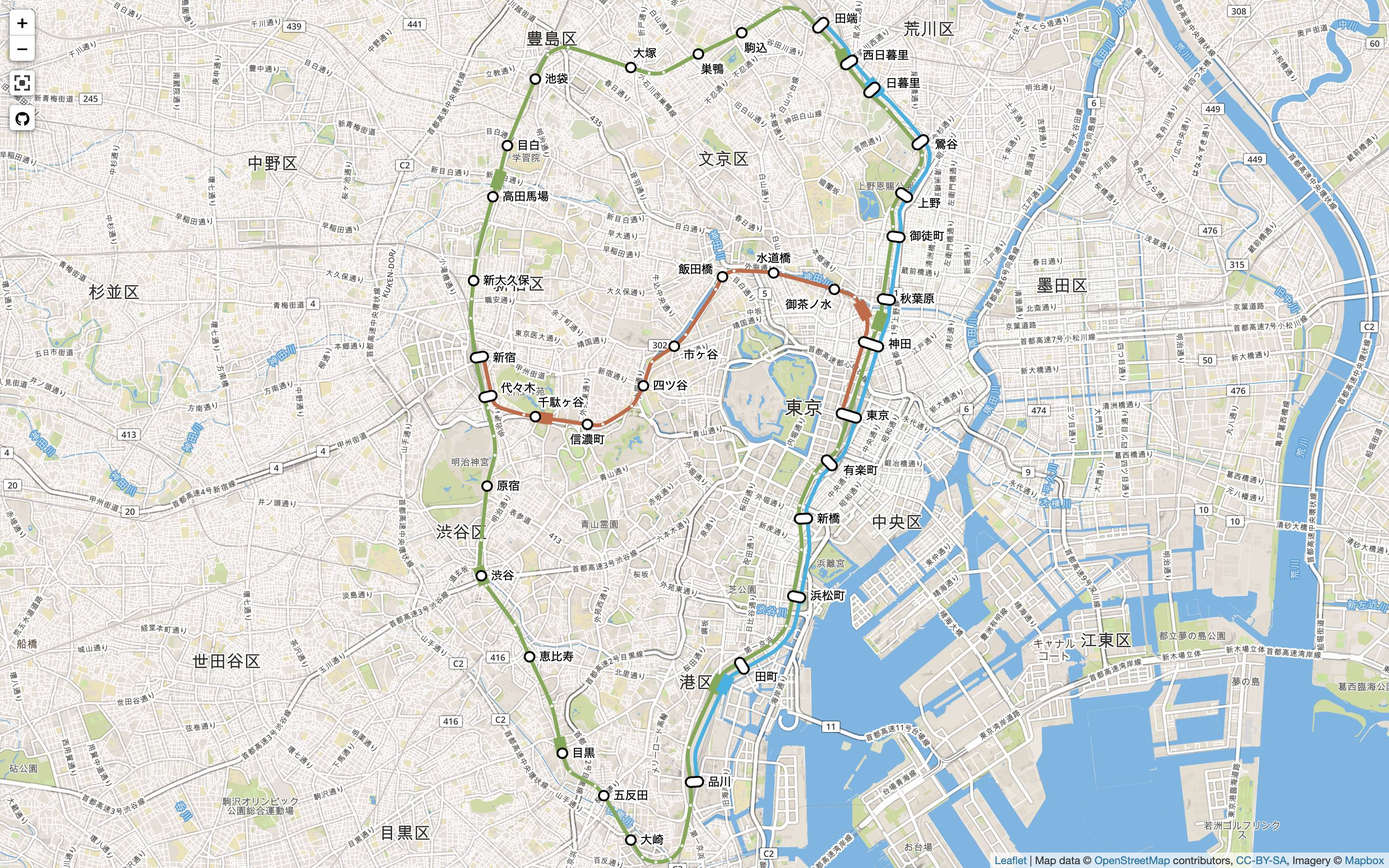
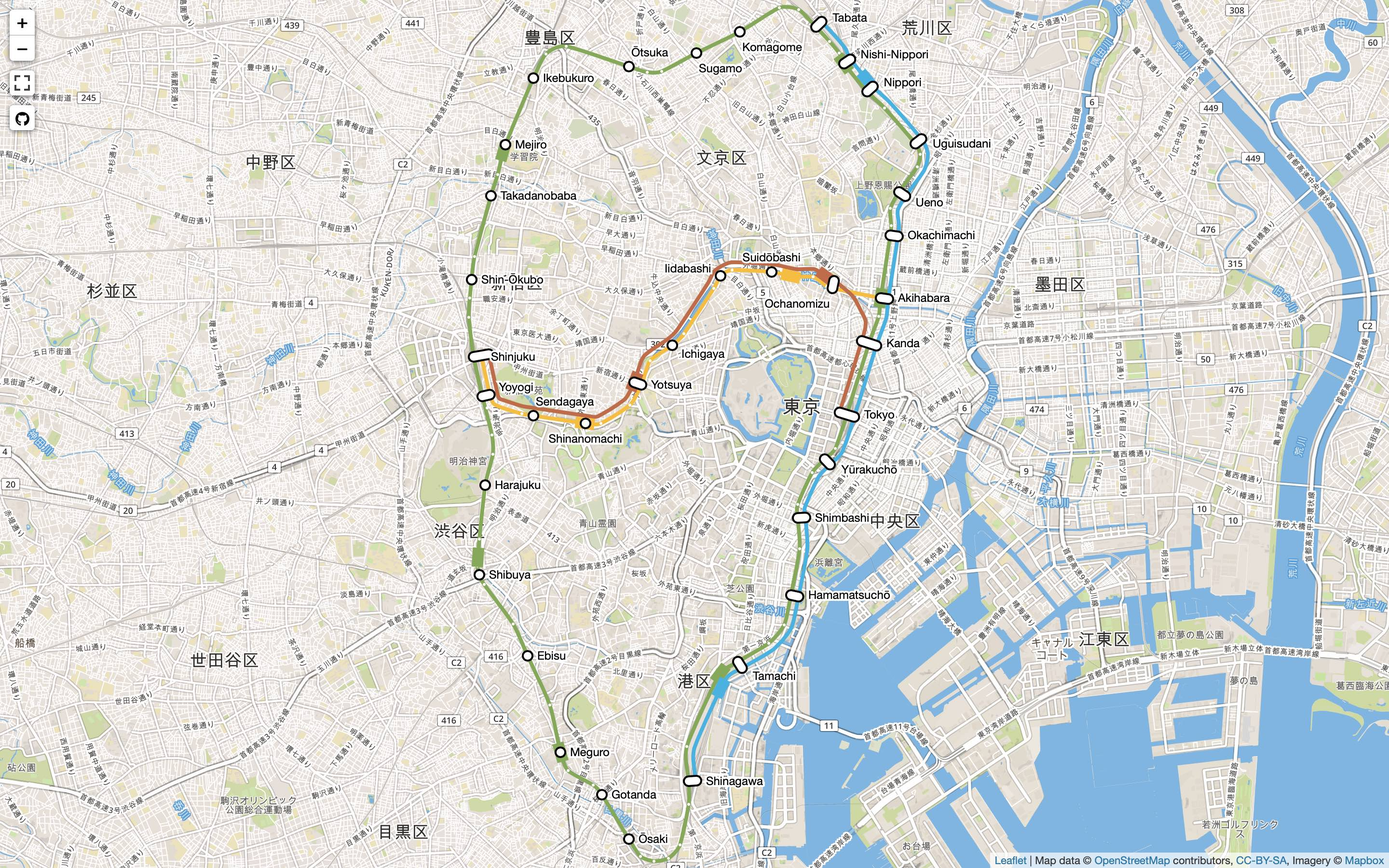
Add sobu linne

diff --git a/style.css b/style.css
@@ -13,6 +13,10 @@ body {
 	stroke: #7BAB4F;
 	fill: #7BAB4F;
 }
+.sobu {
+	stroke: #FDBC00;
+	fill: #FDBC00;
+}
 .chuo {
 	stroke: #CA6840;
 	fill: #CA6840;
